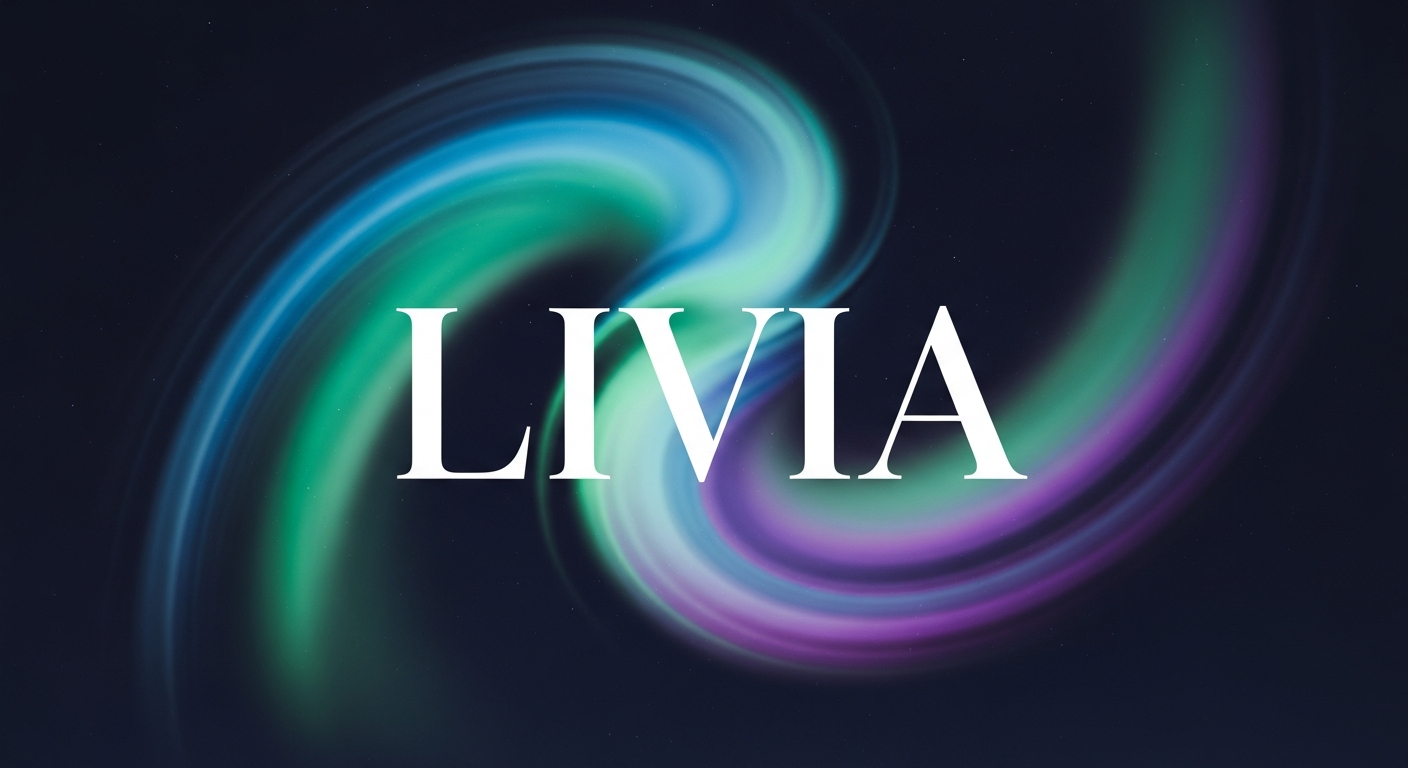
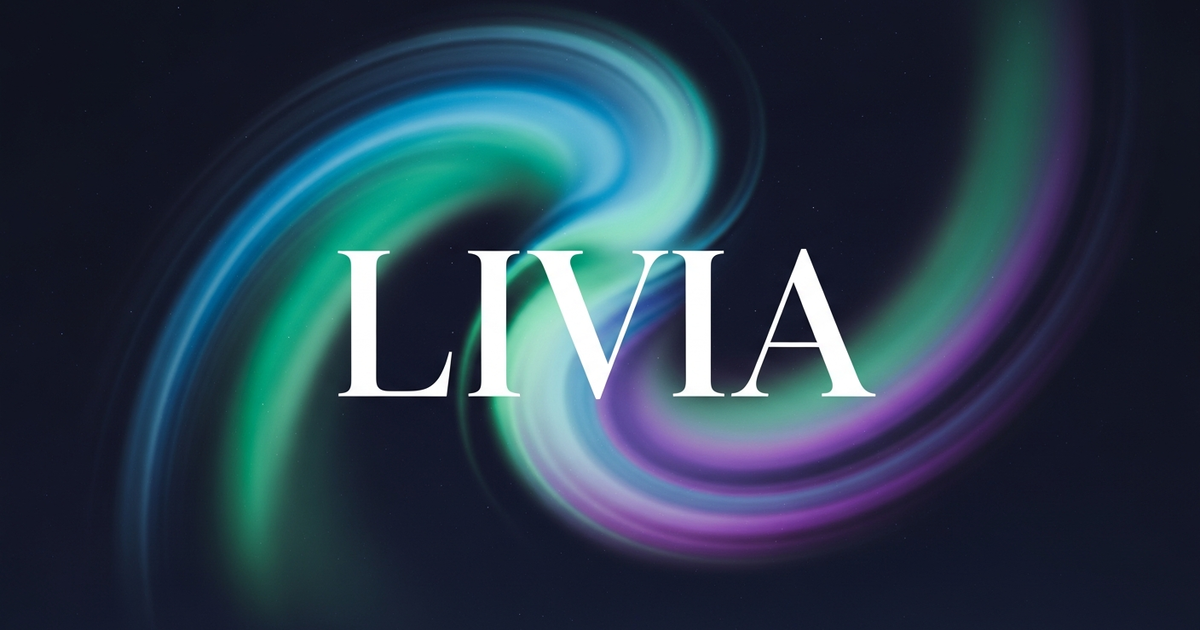
Task #26: ship livia.io marketing site v1
- New artifact `artifacts/livia-marketing` (React + Vite) at /livia-marketing/.
  Single-page dark Aurora surface: hero, three pillars, pricing
  (€49 Solo / €99 Studio / €149 Atelier), 8-question FAQ, founder note,
  lead-capture form, footer. OG/Twitter cards + 1200×630 og.png.
  Brand wordmark via copied LiviaMark.tsx. No "Bliq", no "Olivia", no emoji.

- New `marketing_leads` table (`lib/db/src/schema/marketing-leads.ts`)
  with email/source/referrer/utm* + drizzle-zod schemas. Schema pushed.

- New OpenAPI op `POST /public/marketing/leads` (operationId
  `createMarketingLead`, tag `marketing`). Codegen regenerated.
  Service + route wired (`services/marketing-leads.service.ts`,
  `routes/marketing.ts`). Form posts via the generated
  `useCreateMarketingLead` hook.

- Lead endpoint hardened post-architect-review:
  - Per-IP rate limit (5 / 10 min, 429 with Retry-After).
  - Honeypot `website` field — silent 201, no DB write.
  - 24h email dedupe — idempotent ack, no duplicate row.

- Architect findings remediated:
  - Removed Bliq* aliases from marketing artifact's LiviaMark.
  - Replaced text-aurum-champagne in founder note (Aurum is
    wordmark-only) with text-foreground/80.

- replit.md updated: new artifact, marketing_leads table,
  table count 14→15.

- Asset paths use BASE_URL (favicon/og.png in index.html via
  %BASE_URL%, product/aurora images in home.tsx via
  import.meta.env.BASE_URL) so they resolve correctly under the
[…]

diff --git a/artifacts/livia-marketing/src/pages/home.tsx b/artifacts/livia-marketing/src/pages/home.tsx
@@ -340,10 +340,34 @@ export default function Home() {
             <a href="#" className="hover:text-white transition-colors">Imprint</a>
           </div>
 
-          <div className="flex items-center gap-6 text-muted-foreground">
-            <a href="#" className="hover:text-white transition-colors">X</a>
-            <a href="#" className="hover:text-white transition-colors">LinkedIn</a>
-            <a href="#" className="hover:text-white transition-colors">Instagram</a>
+          <div className="flex items-center gap-5 text-muted-foreground">
+            <a
+              href="#"
+              aria-label="Livia on X"
+              className="hover:text-white transition-colors"
+            >
+              <svg viewBox="0 0 24 24" aria-hidden="true" focusable="false" className="w-5 h-5 fill-current">
+                <path d="M18.244 2.25h3.308l-7.227 8.26 8.502 11.24H16.17l-5.214-6.817L4.99 21.75H1.68l7.73-8.835L1.254 2.25H8.08l4.713 6.231zm-1.161 17.52h1.833L7.084 4.126H5.117z" />
+              </svg>
+            </a>
+            <a
+              href="#"
+              aria-label="Livia on LinkedIn"
+              className="hover:text-white transition-colors"
+            >
+              <svg viewBox="0 0 24 24" aria-hidden="true" focusable="false" className="w-5 h-5 fill-current">
+                <path d="M20.447 20.452h-3.554v-5.569c0-1.328-.027-3.037-1.852-3.037-1.853 0-2.136 1.445-2.136 2.939v5.667H9.351V9h3.414v1.561h.046c.477-.9 1.637-1.85 3.37-1.85 3.601 0 4.268 2.37 4.268 5.455v6.286zM5.337 7.433a2.062 2.062 0 01-2.063-2.065 2.063 2.063 0 112.063 2.065zm1.778 13.019H3.555V9h3.56v11.452zM22.225 0H1.771C.792 0 0 .774 0 1.729v20.542C0 23.227.792 24 1.771 24h20.451C23.2 24 24 23.227 24 22.271V1.729C24 .774 23.2 0 22.222 0h.003z" />
+              </svg>
+            </a>
+            <a
+              href="#"
+              aria-label="Livia on Instagram"
+              className="hover:text-white transition-colors"
+            >
+              <svg viewBox="0 0 24 24" aria-hidden="true" focusable="false" className="w-5 h-5 fill-current">
+                <path d="M12 2.163c3.204 0 3.584.012 4.85.07 3.252.148 4.771 1.691 4.919 4.919.058 1.265.069 1.645.069 4.849 0 3.205-.012 3.584-.069 4.849-.149 3.225-1.664 4.771-4.919 4.919-1.266.058-1.644.07-4.85.07-3.204 0-3.584-.012-4.849-.07-3.26-.149-4.771-1.699-4.919-4.92-.058-1.265-.07-1.644-.07-4.849 0-3.204.013-3.583.07-4.849.149-3.227 1.664-4.771 4.919-4.919 1.266-.057 1.645-.069 4.849-.069zM12 0C8.741 0 8.333.014 7.053.072 2.695.272.273 2.69.073 7.052.014 8.333 0 8.741 0 12c0 3.259.014 3.668.072 4.948.2 4.358 2.618 6.78 6.98 6.98C8.333 23.986 8.741 24 12 24c3.259 0 3.668-.014 4.948-.072 4.354-.2 6.782-2.618 6.979-6.98.059-1.28.073-1.689.073-4.948 0-3.259-.014-3.667-.072-4.947-.196-4.354-2.617-6.78-6.979-6.98C15.668.014 15.259 0 12 0zm0 5.838a6.162 6.162 0 100 12.324 6.162 6.162 0 000-12.324zM12 16a4 4 0 110-8 4 4 0 010 8zm6.406-11.845a1.44 1.44 0 100 2.881 1.44 1.44 0 000-2.881z" />
+              </svg>
+            </a>
           </div>
 
           <div className="text-muted-foreground/60 text-xs">

diff --git a/artifacts/livia-marketing/src/components/marketing-form.tsx b/artifacts/livia-marketing/src/components/marketing-form.tsx
@@ -55,6 +55,9 @@ export function MarketingForm() {
             <FormItem className="flex-1">
               <FormControl>
                 <Input
+                  type="email"
+                  aria-label="Email address"
+                  autoComplete="email"
                   placeholder="[email redacted]"
                   className="h-12 bg-background/50 border-white/10 text-white placeholder:text-muted-foreground focus-visible:ring-aurora-cyan"
                   {...field}